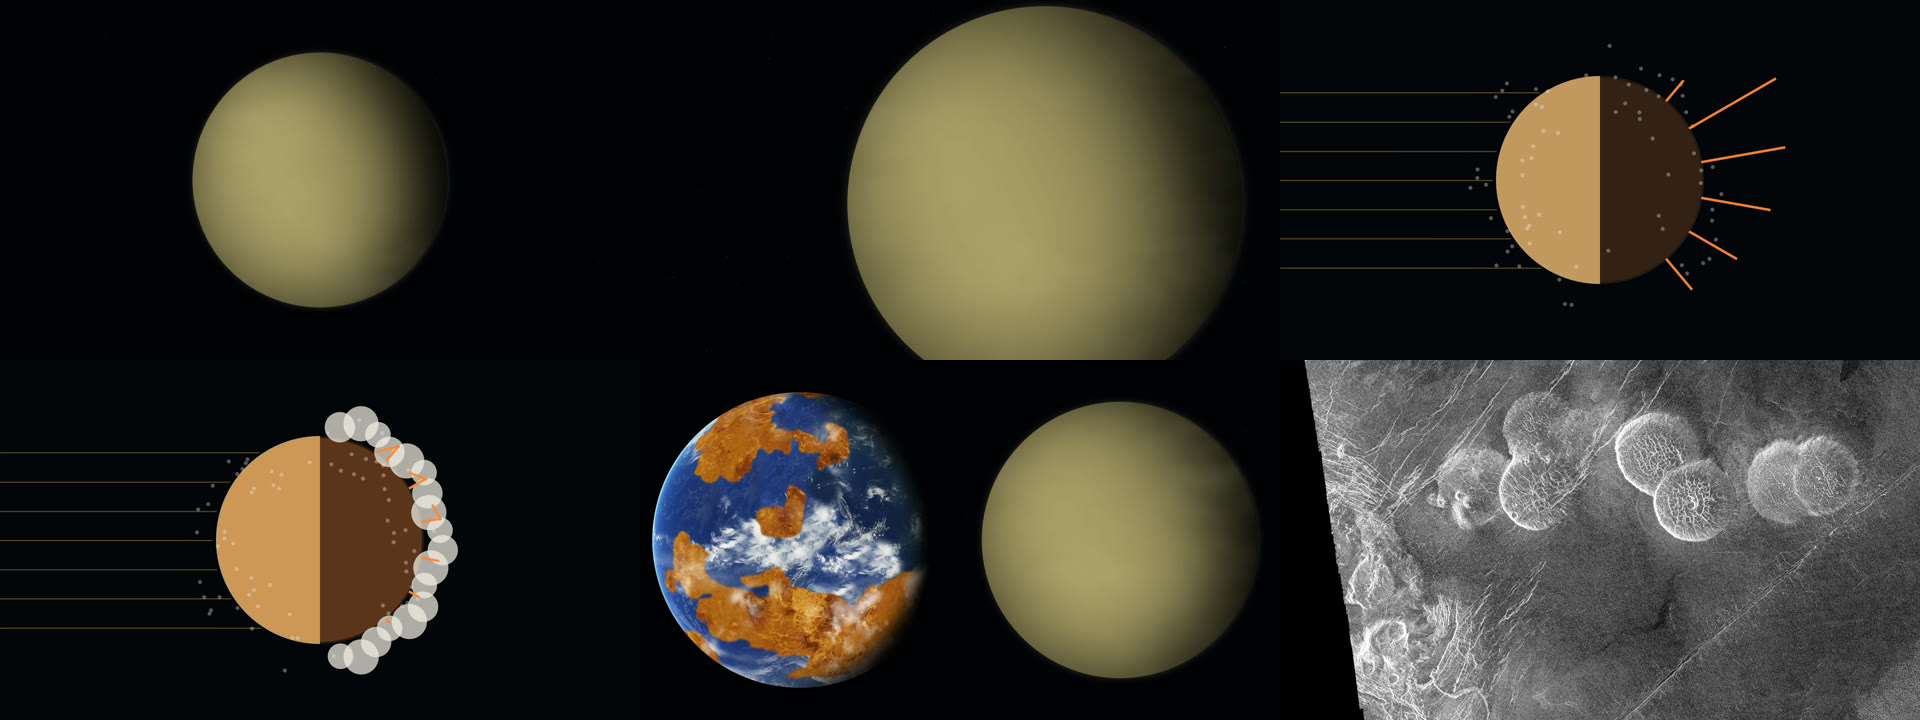
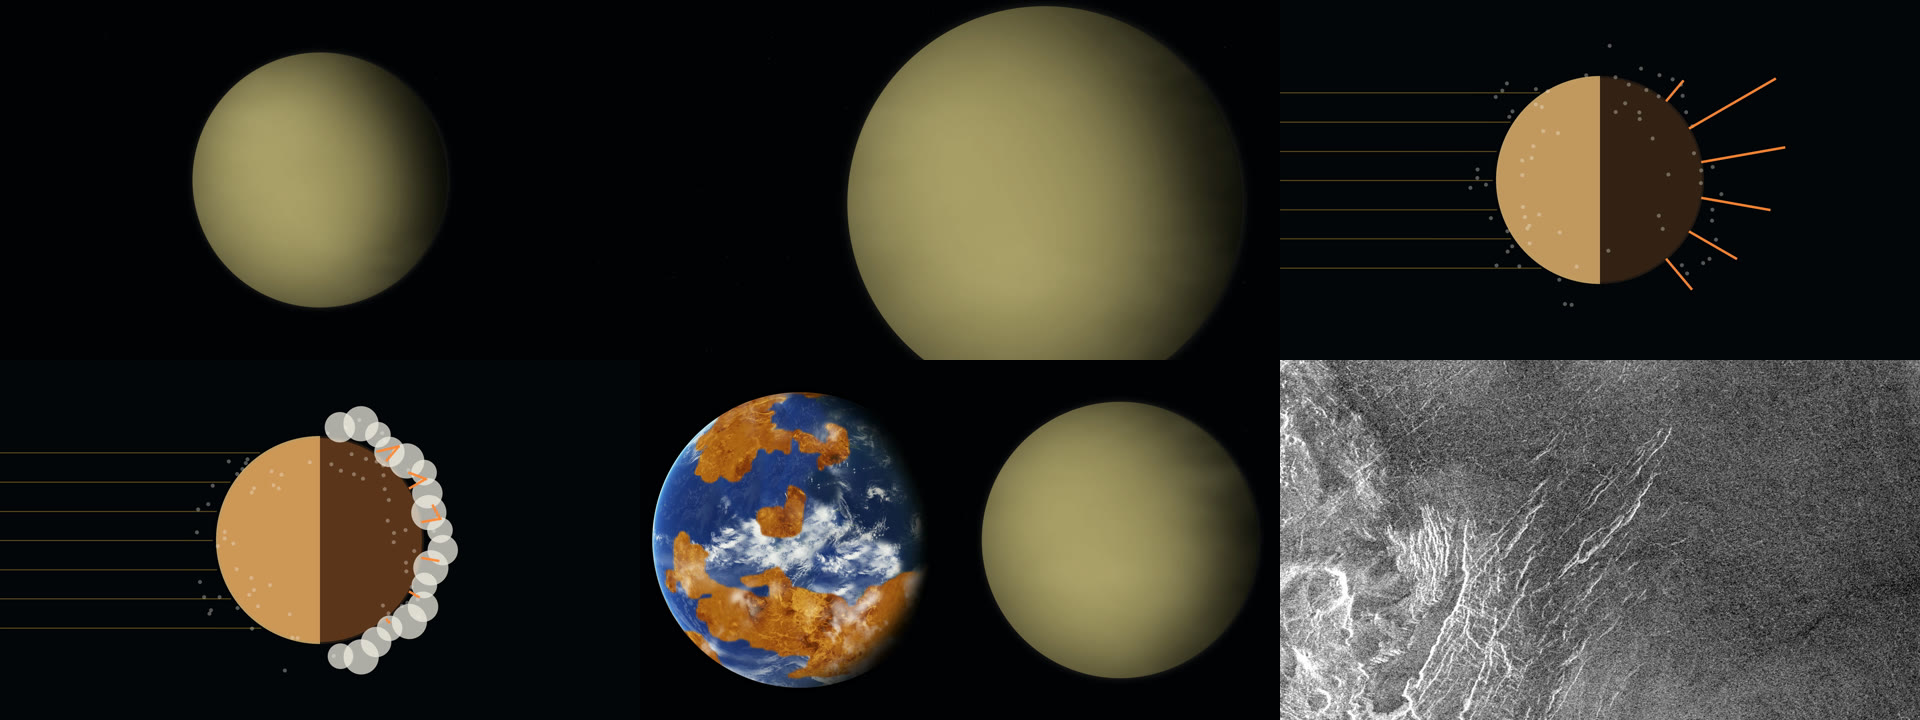
Venus 023 #39b: recrop PIA00215 to the tessera, clear of the no-data wedge and below the pancake domes

Changed region(s): [[0.6562, 0.4889, 1.0, 1.0]]

diff --git a/02_Video-Projects/023_What-Happened-To-Venus/07_Edit-Project/_build_venus_ch3_plates_v02.py b/02_Video-Projects/023_What-Happened-To-Venus/07_Edit-Project/_build_venus_ch3_plates_v02.py
@@ -223,9 +223,10 @@ rep["row39a_split_AB"] = render_frames("venus_ch3_row39a_split_ocean_vs_steamlid
 # ----- Row 39b: Magellan Alpha Regio tessera PIA00215, 335.06-338.98 = 3.92 s (118 frames), 5% push -----
 mg = Image.open(PIA00215).convert("RGB")
 mw, mh = mg.size
-cw = mw; ch = cw * OH / OW
-if ch > mh: ch = mh; cw = ch * OW / OH
-mcx, mcy = mw / 2, mh / 2
+# Crop clear of the black no-data wedge (left edge, x up to ~430 px at the bottom) and the top-right notch, and below
+# the pancake domes so the frame is led by the tessera: 1200 px wide 16:9 window, x 430-1630, y ~1290-1965.
+cw = 1200.0; ch = cw * OH / OW
+mcx, mcy = 430 + cw / 2, 1290 + ch / 2
 mga = np.array(mg).astype(np.float32)
 lo, hi = np.percentile(mga, 1), np.percentile(mga, 99.5)
 mg = Image.fromarray(((mga - lo) / (hi - lo) * 255).clip(0, 255).astype(np.uint8))
